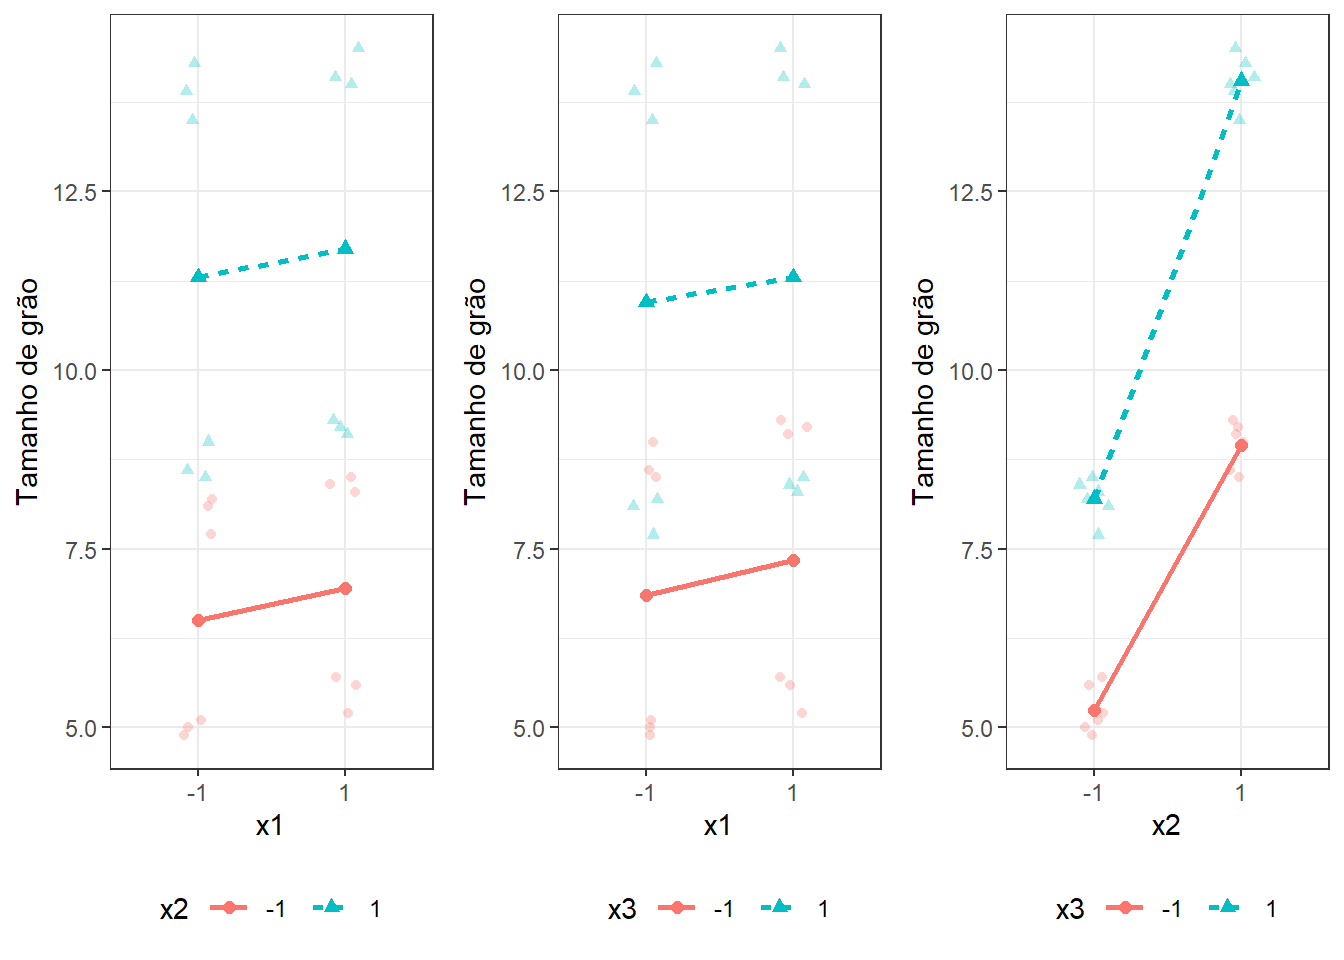
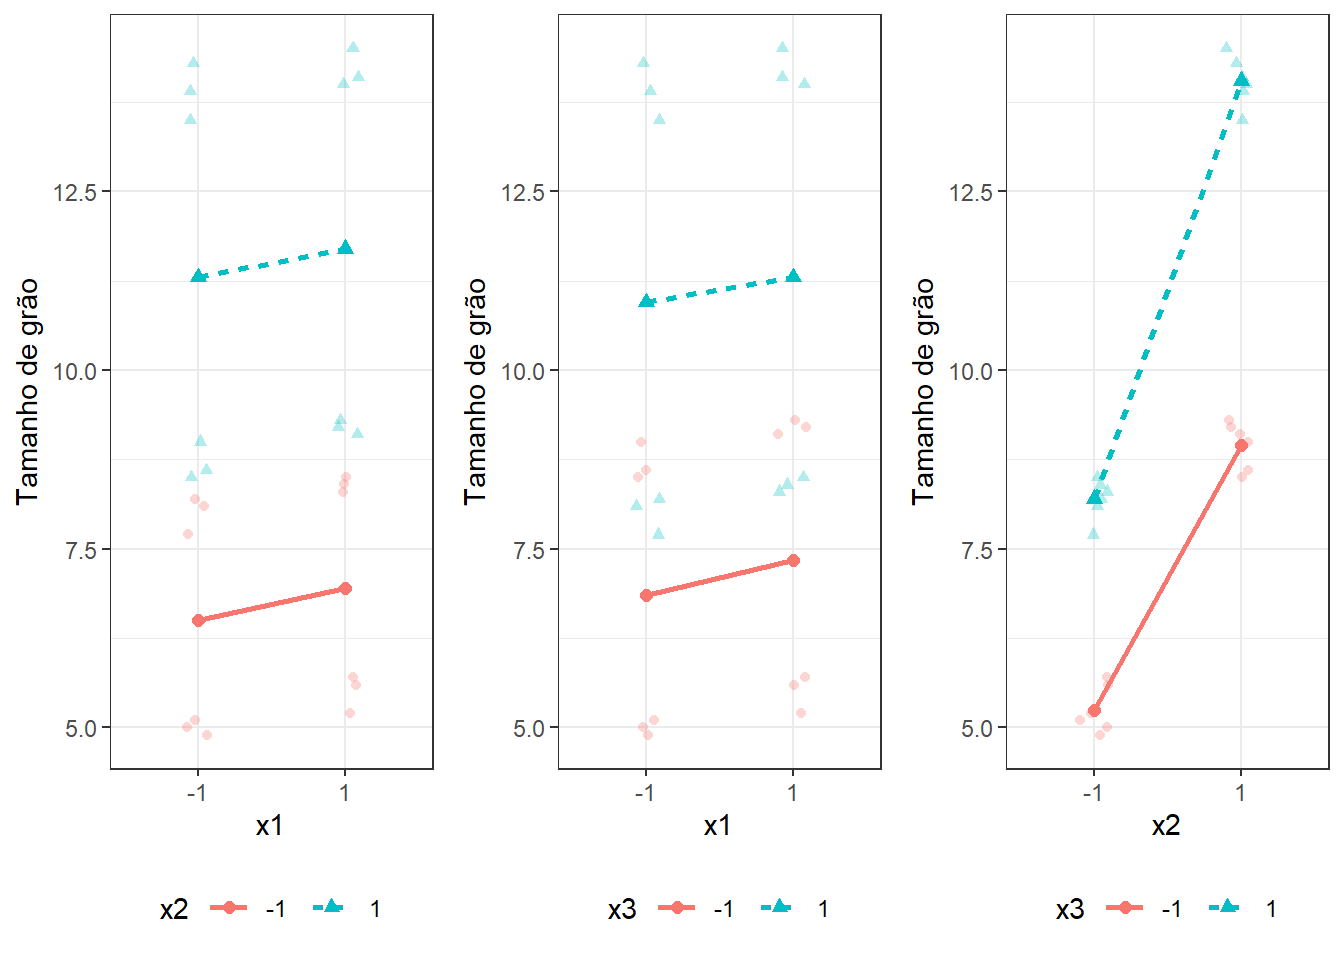
Atualização 17042025

diff --git a/05-fat2k.html b/05-fat2k.html
@@ -549,30 +549,30 @@ Tabela&nbsp;5.3: Planejamento fatorial <span class="math inline">\(2^3\)</span>,
 <span id="cb1-26"><a href="#cb1-26" aria-hidden="true" tabindex="-1"></a>planej</span></code><button title="Copiar para a área de transferência" class="code-copy-button"><i class="bi"></i></button></pre></div>
 <div class="cell-output cell-output-stdout">
 <pre><code>   ordem random x1 x2 x3    y
-1      1     13 -1 -1 -1  5.1
-2      2      5  1 -1 -1  5.6
-3      3      3 -1  1 -1  8.6
-4      4     17  1  1 -1  9.1
-5      5     20 -1 -1  1  7.7
-6      6     15  1 -1  1  8.4
-7      7     10 -1  1  1 13.5
-8      8     16  1  1  1 14.0
+1      1      4 -1 -1 -1  5.1
+2      2      7  1 -1 -1  5.6
+3      3     24 -1  1 -1  8.6
+4      4     14  1  1 -1  9.1
+5      5      8 -1 -1  1  7.7
+6      6      6  1 -1  1  8.4
+7      7     23 -1  1  1 13.5
+8      8     11  1  1  1 14.0
 9      9     12 -1 -1 -1  5.0
-10    10     14  1 -1 -1  5.7
-11    11      4 -1  1 -1  8.5
-12    12     24  1  1 -1  9.2
-13    13      6 -1 -1  1  8.2
-14    14     18  1 -1  1  8.3
+10    10      9  1 -1 -1  5.7
+11    11     10 -1  1 -1  8.5
+12    12     17  1  1 -1  9.2
+13    13      1 -1 -1  1  8.2
+14    14     22  1 -1  1  8.3
 15    15     19 -1  1  1 13.9
-16    16     22  1  1  1 14.1
-17    17      8 -1 -1 -1  4.9
+16    16     18  1  1  1 14.1
+17    17     16 -1 -1 -1  4.9
 18    18      2  1 -1 -1  5.2
-19    19      9 -1  1 -1  9.0
-20    20     11  1  1 -1  9.3
-21    21     21 -1 -1  1  8.1
-22    22     23  1 -1  1  8.5
-23    23      7 -1  1  1 14.3
-24    24      1  1  1  1 14.5</code></pre>
+19    19      5 -1  1 -1  9.0
+20    20     20  1  1 -1  9.3
+21    21      3 -1 -1  1  8.1
+22    22     15  1 -1  1  8.5
+23    23     21 -1  1  1 14.3
+24    24     13  1  1  1 14.5</code></pre>
 </div>
 </div>
 <p>A coluna de ordem aleatória (<em>random</em>) foi gerada para propor uma ordem de condução dos ensaios. A aleatorização da ordem e da seleção dos materiais nos experimentos é importante para diluir o erro experimental devido a variáveis incontroláveis de forma aleatória em todas as condições experimentais. Estas variáveis incontroláveis, ditas de ruído, podem ter origem em condições ambientais ou de fontes de variação intrínsecas do próprio aparato experimental e materiais usados.</p>
